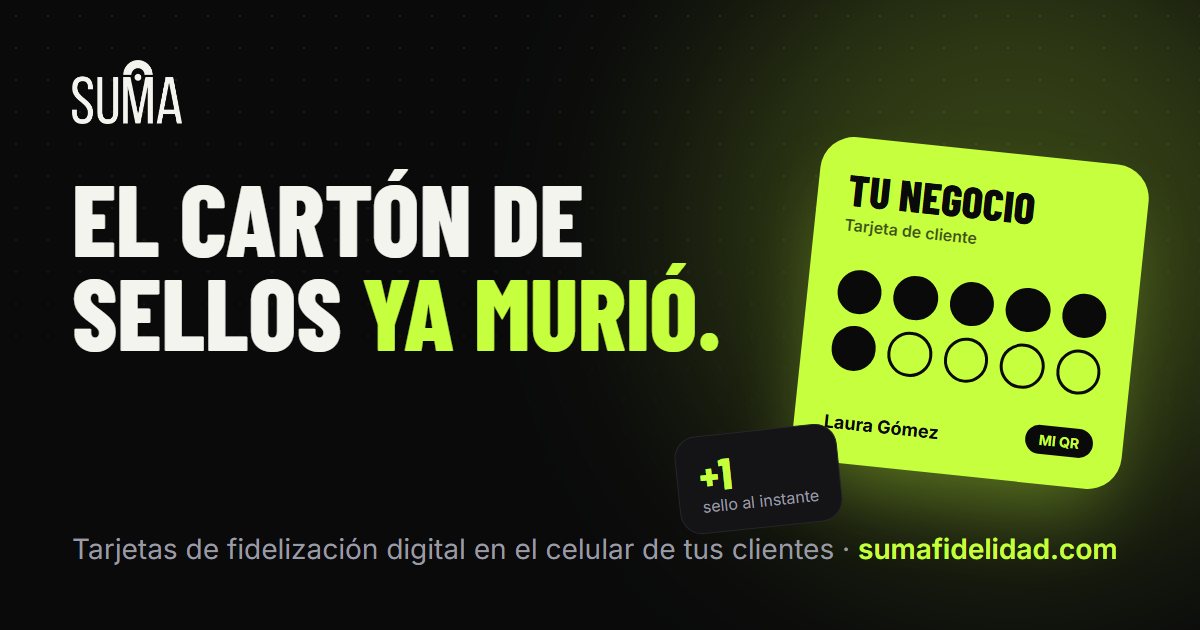
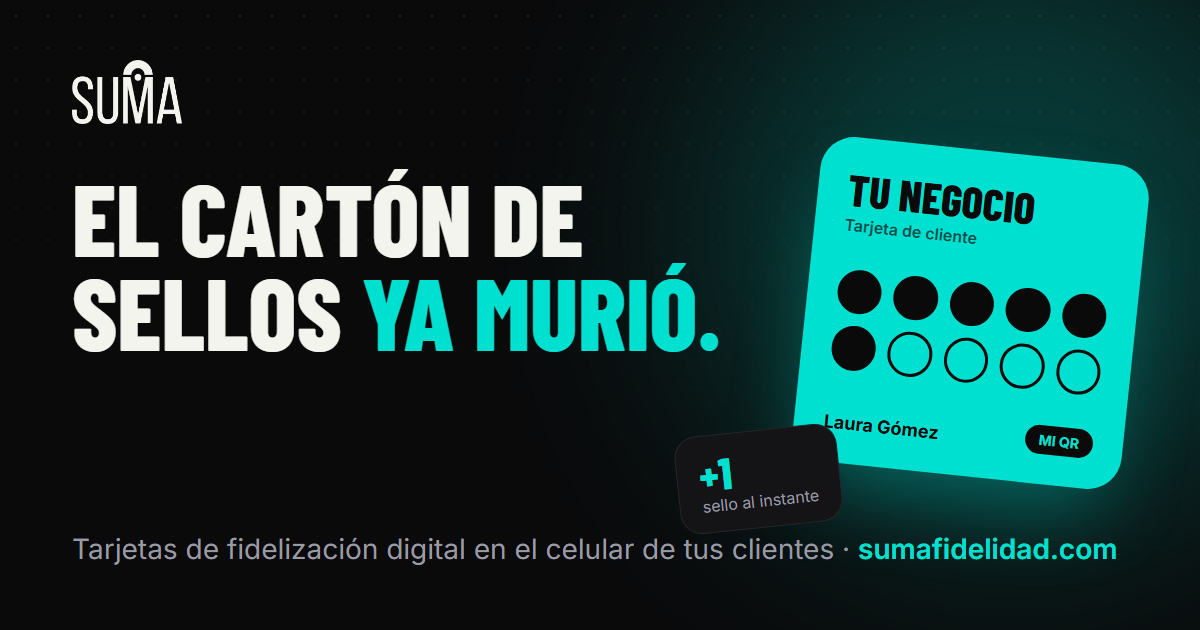
Cambia el color de acento a cian #00E0D0

diff --git a/src/styles/global.css b/src/styles/global.css
@@ -6,7 +6,7 @@
   --color-line: #26262b;
   --color-bone: #f4f4ef;
   --color-mute: #9a9aa2;
-  --color-volt: #c6ff3d;
+  --color-volt: #00e0d0;
 
   --font-display: "Barlow Condensed", "Arial Narrow", sans-serif;
   --font-sans: "Inter Variable", system-ui, sans-serif;
@@ -41,7 +41,7 @@
     @apply inline-flex items-center justify-center gap-2 rounded-full px-6 py-3.5 text-[15px] font-semibold transition duration-200;
   }
   .btn-volt {
-    @apply bg-volt text-ink hover:-translate-y-0.5 hover:shadow-[0_8px_30px_-6px_rgba(198,255,61,0.55)];
+    @apply bg-volt text-ink hover:-translate-y-0.5 hover:shadow-[0_8px_30px_-6px_rgba(0,224,208,0.55)];
   }
   .btn-ghost {
     @apply border border-white/20 text-bone hover:border-volt hover:text-volt;
